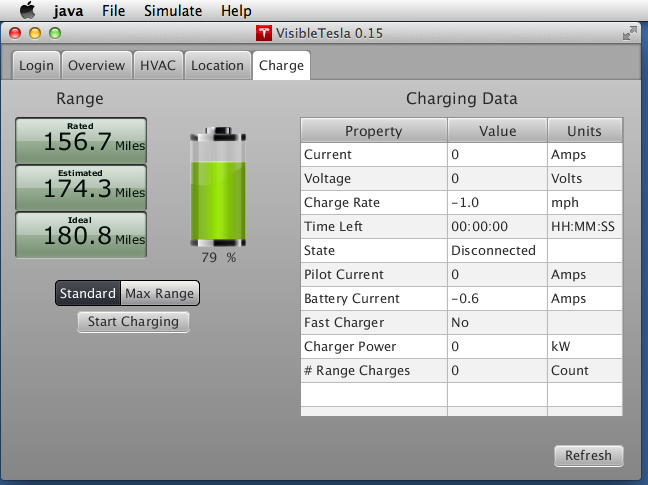
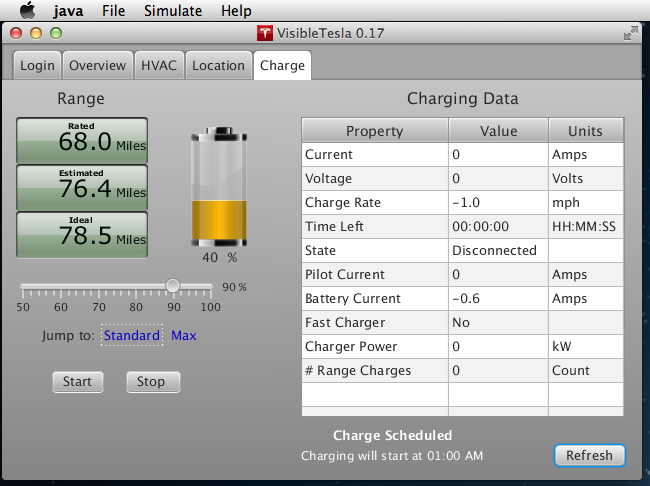
Update Documentation, adjust build files, ChargeSlider changes

diff --git a/Documentation/Overview.html b/Documentation/Overview.html
@@ -43,7 +43,7 @@
             <li><a href="#overview_tab">Overview Tab</a></li>
             <li><a href="#hvac_tab">HVAC Tab</a></li>
             <li><a href="#location_tab">Location Tab</a></li>
-            <li><a href="#charging_tab">Charging Tab</a></li>
+            <li><a href="#charging_tab">Charge Tab</a></li>
             <li><a href="#autorefresh">Auto-Refresh</a></li>
             <li><a href="#simulation">Simulation</a></li>
         </ul>
@@ -66,7 +66,7 @@
     in. If you've logged in before then the app will automatically log you in again
     based on stored cookies. This screenshot shows the logged-in state:
 
-    <p><img alt="Login Tab" border="0" src="images/01_Login_Tab.png" /></p>
+    <p><img alt="Login Tab" border="0" style="margin:5px" src="images/01_Login_Tab.png" /></p>
 
     <h3><a id="overview_tab">Overview Tab</a></h3>
 
@@ -77,20 +77,20 @@
     information dialog that gives details about your car.
     </p>
 
-    <p><img border="0" src="images/02_Overview_Tab.png" /></p>
-    <p><img border="0" src="images/02a_Overview_Details.png" /></p>
+    <p><img border="0" style="margin:5px" src="images/02_Overview_Tab.png" /></p>
+    <p><img border="0" style="margin:5px" src="images/02a_Overview_Details.png" /></p>
     <p>The next screen shot shows the panoramic roof in the vented state. The user
         vented the roof by pressing the Vent button. The next screenshot shows
         wht the app will display when the driver's door is open.<p>
-    <p><img border="0" src="images/03_Overview_Vented.png" /></p>
-    <p><img border="0" src="images/04_Overview_Door_Open.png" /> </p>
+    <p><img border="0" style="margin:5px" src="images/03_Overview_Vented.png" /></p>
+    <p><img border="0" style="margin:5px" src="images/04_Overview_Door_Open.png" /> </p>
     
     <h3><a id="hvac_tab">HVAC Tab</a></h3>
 
     <p>Next we have the HVAC tab which shows the state of that system. It also
     allows you to set the target temperature and turn on/off the system.</p>
 
-    <p><img border="0" src="images/05_HVAC_Tab.png" /></p>
+    <p><img border="0" style="margin:5px" src="images/05_HVAC_Tab.png" /></p>
 
     <h3><a id="location_tab">Location Tab</a></h3>
 
@@ -99,24 +99,41 @@
     button that will launch a browser displaying a Google map with the car's
     location so you can get directions or perform any other Google map function.</p>
 
-    <p><img border="0" src="images/06_Location_Tab.png" /></p>
+    <p><img border="0" style="margin:5px" src="images/06_Location_Tab.png" /></p>
     <p>Like a normal Google Map, you can zoom in and out, you can pan, and switch to satellite
         mode. If you click on the arrow representing your Tesla, an info window will pop
         up displaying the street address that is closest to your car.</p>
         <p><b>Note:</b> If you pan the map such that the marker for your car is no longer
             displayed, the map will automatically pan back upon the next refresh.</p>
-    <p><img border="0" src="images/06a_Location_Info.png" /></p>
+    <p><img border="0" style="margin:5px" src="images/06a_Location_Info.png" /></p>
 
     <h3><a id="charging_tab">Charge Tab</a></h3>
 
-    <p>The last tab shows the charge state and allows you to set the charge
-    target (max or std) and start/stop charging. The screen shots show the car
+    <p>The Charge tab shows the charge state and allows you to set the charge
+    target and to start/stop charging. The slider allows you to specify how much
+    charge you want the car to get. You can click on "Standard" or "Max" to
+    make the slider jump to a preset value.</p>
+
+    <p><b>Notes:</b><ul>
+        <li>VisibleTesla checks the version of firmware installed on your
+        car. If it is an older version, the slider capability is not supported
+        and you can only adjust the charge target by clicking on "Standard" or "Max".</li>
+        <li>The range of the slider is automatically adjusted to accommodate the range of
+            values that the car will accept. For example, the minimum value may be 50 rather
+            than 0.</li>
+            <li>The Tesla server may adjust the value you specify. The actual value
+                will be reflected in the slider. you may see it jump to a slightly
+                different value after you release it.</li>
+            </ul>
+    </p>
+
+    The screen shots show the car
     when not connected to a charger, connected but not charging, and charging.
     In this case it is connected to an HPWC which is set to 60A.</p>
 
-    <p><img border="0" src="images/07_Charge_Tab.png" />
-    <img border="0" src="images/08_Charge_Plugged_In.png" />
-    <img border="0" src="images/09_Charging.png" /></p>
+    <p><img border="0" style="margin:5px" src="images/07_Charge_Tab.png" />
+    <img border="0" style="margin:5px" src="images/08_Charge_Plugged_In.png" />
+    <img border="0" style="margin:5px" src="images/09_Charging.png" /></p>
 
     <h3><a id="autorefresh">Auto-Refresh</a></h3>
     <p>This screen shot shows the "spinner" that is displayed when the app is
@@ -124,8 +141,15 @@
     auto-refreshes once 15 seconds have elapsed since the last manual or
     automatic refresh. Switching tabs automatically refreshes the newly
     selected tab.</p>
+    <p>
+        In order to ensure that Tesla's servers do not become overloaded, the app
+        automatically monitors the rate at which it makes requests. If you manually press
+        refresh multiple times in rapid succession, you may find that the spinner rotates
+        for a longer than usual. The app is automatically slowing down its requests to Tesla's
+        servers in order to remain a good citizen.
+    </p>
 
-    <p><img border="0" src="images/12_Auto_Refresh.png" /></p>
+    <p><img border="0" style="margin:5px" src="images/12_Auto_Refresh.png" /></p>
 
     <h3><a id="simulation">Simulation Menu</a></h3>
 
@@ -133,8 +157,8 @@
         These screen shots show changing the
     color to red and using 21" dark rims.</p>
 
-    <p><img border="0" src="images/10_Simulate_Color_Red.png" />
-    <img border="0" src="images/11_Simulate_Dark_Rims.png" /></p>
+    <p><img border="0" style="margin:5px" src="images/10_Simulate_Color_Red.png" />
+    <img border="0" style="margin:5px" src="images/11_Simulate_Dark_Rims.png" /></p>
 
     <hr>
     <h2><a id="installation" name="installation">Installing and Running</a></h2>This

diff --git a/src/org/noroomattheinn/styles/VisibleTesla.css b/src/org/noroomattheinn/styles/VisibleTesla.css
@@ -29,3 +29,7 @@
     -fx-border-width: 1px;
 }
 
+.slider .axis .axis-tick-mark, .slider .axis .axis-minor-tick-mark {
+    -fx-fill: null;
+    -fx-stroke: white;
+}

diff --git a/src/org/noroomattheinn/visibletesla/ChargeController.java b/src/org/noroomattheinn/visibletesla/ChargeController.java
@@ -200,8 +200,11 @@ public class ChargeController extends BaseController {
     
     private void reflectChargeStatus() {
         int percent = chargeState.chargeLimitSOC();
-        chargeSlider.setMin(chargeState.chargeLimitSOCMin());
-        chargeSlider.setMax(chargeState.chargeLimitSOCMax());
+        chargeSlider.setMin((chargeState.chargeLimitSOCMin()/10)*10);
+        chargeSlider.setMax(100);
+        chargeSlider.setMajorTickUnit(10);
+        chargeSlider.setMinorTickCount(4);
+        chargeSlider.setBlockIncrement(10);
         chargeSlider.setValue(percent);
         chargeSetting.setText(percent + " %");
         stdLink.setVisited(percent == chargeState.chargeLimitSOCStd());

diff --git a/src/org/noroomattheinn/visibletesla/MainController.java b/src/org/noroomattheinn/visibletesla/MainController.java
@@ -30,7 +30,7 @@ import org.noroomattheinn.utils.Utils;
 
 public class MainController {
     private static final String ProductName = "VisibleTesla";
-    private static final String ProductVersion = "0.16";
+    private static final String ProductVersion = "0.17";
     
     //  The Tesla, Vehicle, and App Objects
     private Tesla tesla;

diff --git a/README.md b/README.md
@@ -35,7 +35,7 @@ Once you have installed the TeslaClient project you'll have most of what you nee
 + <code>$DOWNLOAD</code>is the directory where you downloaded the project from github
 + <code>$ROOT</code>is the directory in which the top level Tesla directory resides.
 
-Be sure to either set these variables or adapt the commands below:
+Be sure to either set these variables or adapt the commands below. Note that the jfxtras library is under active development and the library versions change fairly frequently. The project refers to a stable jar name which is assumed to be linked to the version that has been downloaded. The commands below create the link.
 
 	cd $ROOT
 	mv $DOWNLOAD/VisibleTesla-master Tesla/VisibleTesla
@@ -54,8 +54,11 @@ Be sure to either set these variables or adapt the commands below:
 	mv javafx-dialogs-0.0.3.jar* javafx-dialogs-0.0.3.jar
 
 	# Download the jfxtras library
+	# There may be a newer version of the library. If so, update the version details below
 	cd ../jfxtras
-	curl -s -O https://oss.sonatype.org/content/repositories/snapshots/org/jfxtras/jfxtras-labs/2.2-r6-SNAPSHOT/jfxtras-labs-2.2-r6-20130703.085215-2.jar
+	curl -s -O https://oss.sonatype.org/content/repositories/snapshots/org/jfxtras/jfxtras-labs/2.2-r6-SNAPSHOT/jfxtras-labs-2.2-r6-20130815.133831-3.jar
+    ln -s jfxtras-labs-2.2-r6-20130815.133831-3.jar jfxtras-labs-2.2.jar
+
 
 
 
